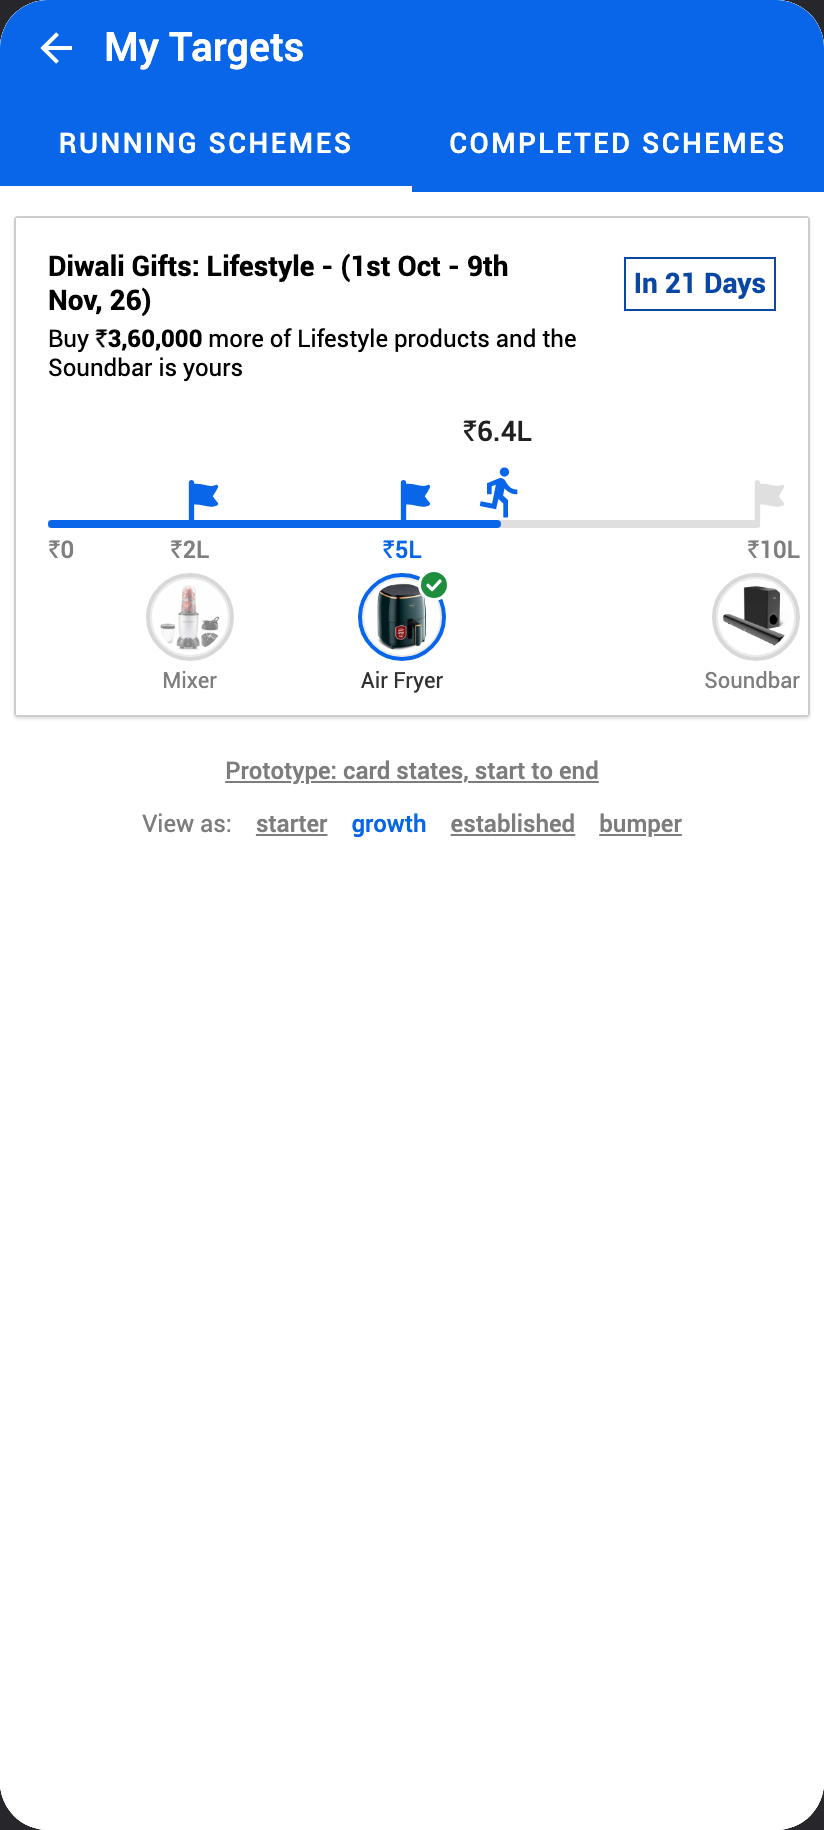
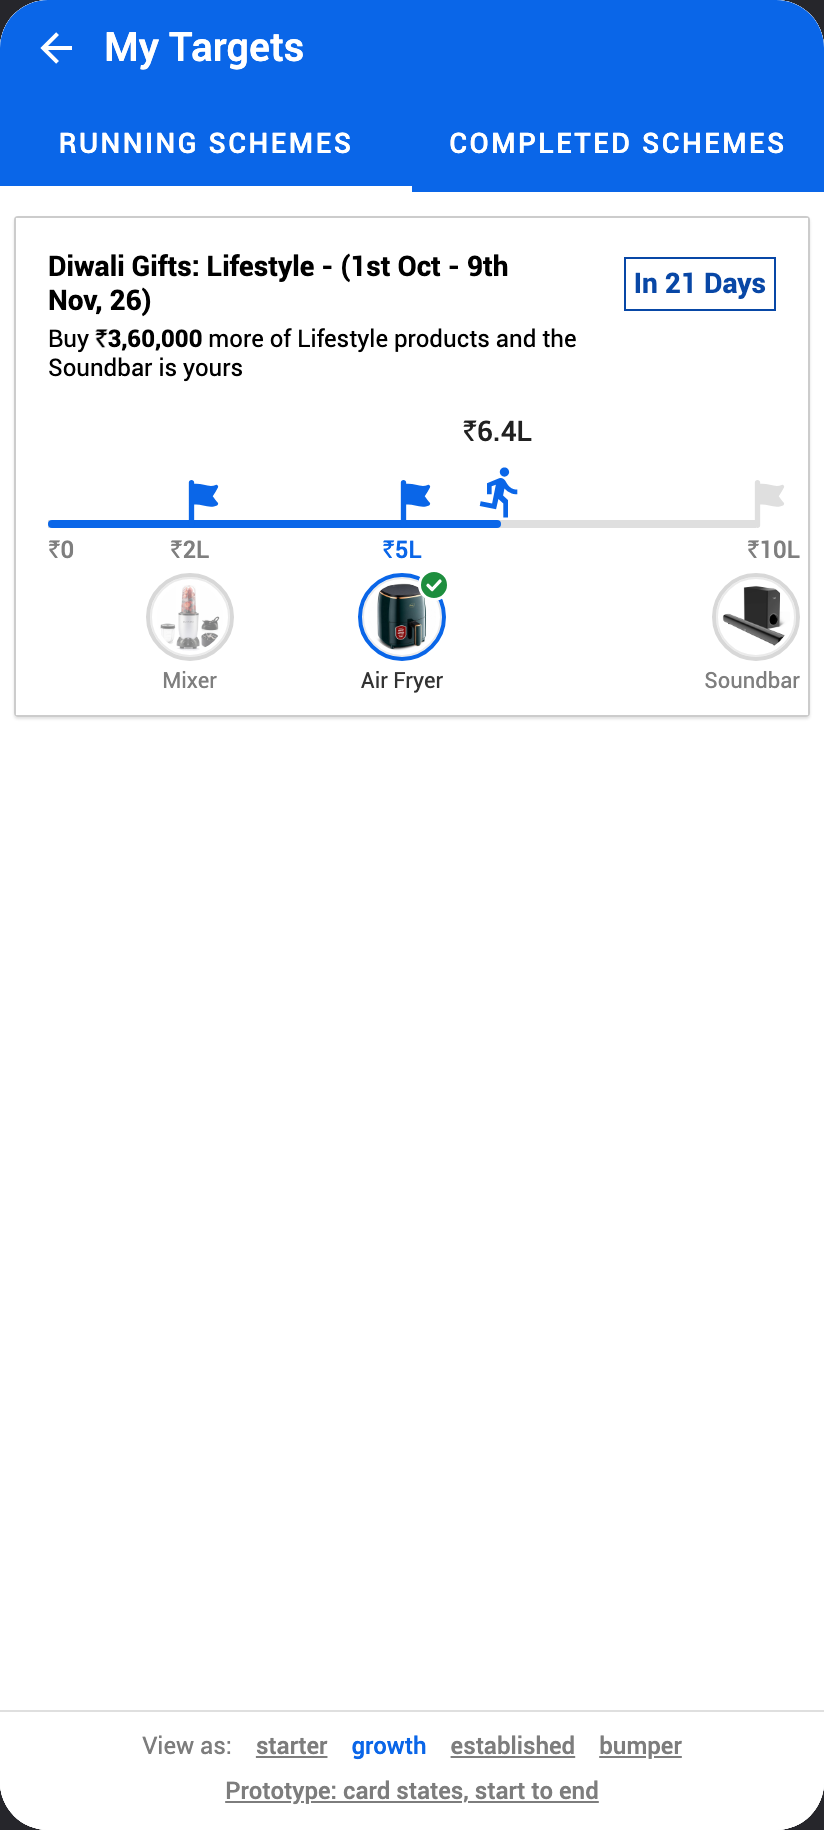
Demo controls pinned to the screen bottom
The cohort switcher and the states-gallery link leave the list footer and
sit in a hairline-topped bar at the bottom edge, on both tabs.

diff --git a/app/ship/index.js b/app/ship/index.js
@@ -38,7 +38,7 @@ export default function ShipTargets() {
     pager.current?.scrollTo({ x: i * pageW, animated: true });
   };
 
-  const renderList = (data, withStatesLink) => (
+  const renderList = (data) => (
     <View style={{ width: pageW, flex: 1 }}>
       {data.length === 0 ? (
         <EmptyState />
@@ -51,29 +51,6 @@ export default function ShipTargets() {
           renderItem={({ item }) => (
             <ShipSchemeCard node={item.node} onPress={() => router.push(`/ship/${item.node.entityId}`)} />
           )}
-          ListFooterComponent={
-            withStatesLink ? (
-              <>
-                <Pressable style={styles.protoLink} onPress={() => router.push('/ship/states')}>
-                  <Text style={styles.protoText} allowFontScaling={false}>Prototype: card states, start to end</Text>
-                </Pressable>
-                {/* Demo chrome only: switch whose view renders. Never ships. */}
-                <View style={styles.cohortRow}>
-                  <Text style={styles.cohortLabel} allowFontScaling={false}>View as:</Text>
-                  {Object.keys(SHIP_COHORTS).map((k) => (
-                    <Pressable key={k} hitSlop={8} onPress={() => router.replace(`/ship?cohort=${k}`)}>
-                      <Text
-                        style={[styles.cohortText, k === cohort && styles.cohortActive]}
-                        allowFontScaling={false}
-                      >
-                        {k}
-                      </Text>
-                    </Pressable>
-                  ))}
-                </View>
-              </>
-            ) : null
-          }
         />
       )}
     </View>
@@ -99,9 +76,26 @@ export default function ShipTargets() {
         onMomentumScrollEnd={(e) => (pageW ? setTab(Math.round(e.nativeEvent.contentOffset.x / pageW)) : null)}
         style={{ flex: 1 }}
       >
-        {renderList(running, true)}
+        {renderList(running)}
         {renderList(completed)}
       </ScrollView>
+
+      {/* Demo chrome only, pinned to the bottom edge: never ships. */}
+      <View style={styles.demoBar}>
+        <View style={styles.cohortRow}>
+          <Text style={styles.cohortLabel} allowFontScaling={false}>View as:</Text>
+          {Object.keys(SHIP_COHORTS).map((k) => (
+            <Pressable key={k} hitSlop={8} onPress={() => router.replace(`/ship?cohort=${k}`)}>
+              <Text style={[styles.cohortText, k === cohort && styles.cohortActive]} allowFontScaling={false}>
+                {k}
+              </Text>
+            </Pressable>
+          ))}
+        </View>
+        <Pressable style={styles.protoLink} onPress={() => router.push('/ship/states')}>
+          <Text style={styles.protoText} allowFontScaling={false}>Prototype: card states, start to end</Text>
+        </Pressable>
+      </View>
     </SafeAreaView>
   );
 }
@@ -112,9 +106,16 @@ const styles = StyleSheet.create({
   tab: { flex: 1, alignItems: 'center', justifyContent: 'center', paddingHorizontal: 12 },
   indicator: { position: 'absolute', bottom: 0, left: 0, right: 0, height: 3, backgroundColor: C.white },
   list: { paddingHorizontal: D.listPaddingH, paddingTop: D.cardGap, paddingBottom: D.cardGap },
-  protoLink: { marginTop: 20, alignItems: 'center' },
+  demoBar: {
+    borderTopWidth: 1,
+    borderTopColor: C.greyishWhite,
+    backgroundColor: C.white,
+    paddingTop: 10,
+    paddingBottom: 12,
+  },
+  protoLink: { marginTop: 8, alignItems: 'center' },
   protoText: { fontFamily: F.medium, fontSize: 12, lineHeight: 14.4, color: C.mediumGrey, textDecorationLine: 'underline' },
-  cohortRow: { flexDirection: 'row', justifyContent: 'center', alignItems: 'center', marginTop: 12, gap: 12 },
+  cohortRow: { flexDirection: 'row', justifyContent: 'center', alignItems: 'center', gap: 12 },
   cohortLabel: { fontFamily: F.regular, fontSize: 12, lineHeight: 14.4, color: C.mediumGrey },
   cohortText: { fontFamily: F.medium, fontSize: 12, lineHeight: 14.4, color: C.mediumGrey, textDecorationLine: 'underline' },
   cohortActive: { color: SOLV.blue, textDecorationLine: 'none' },
